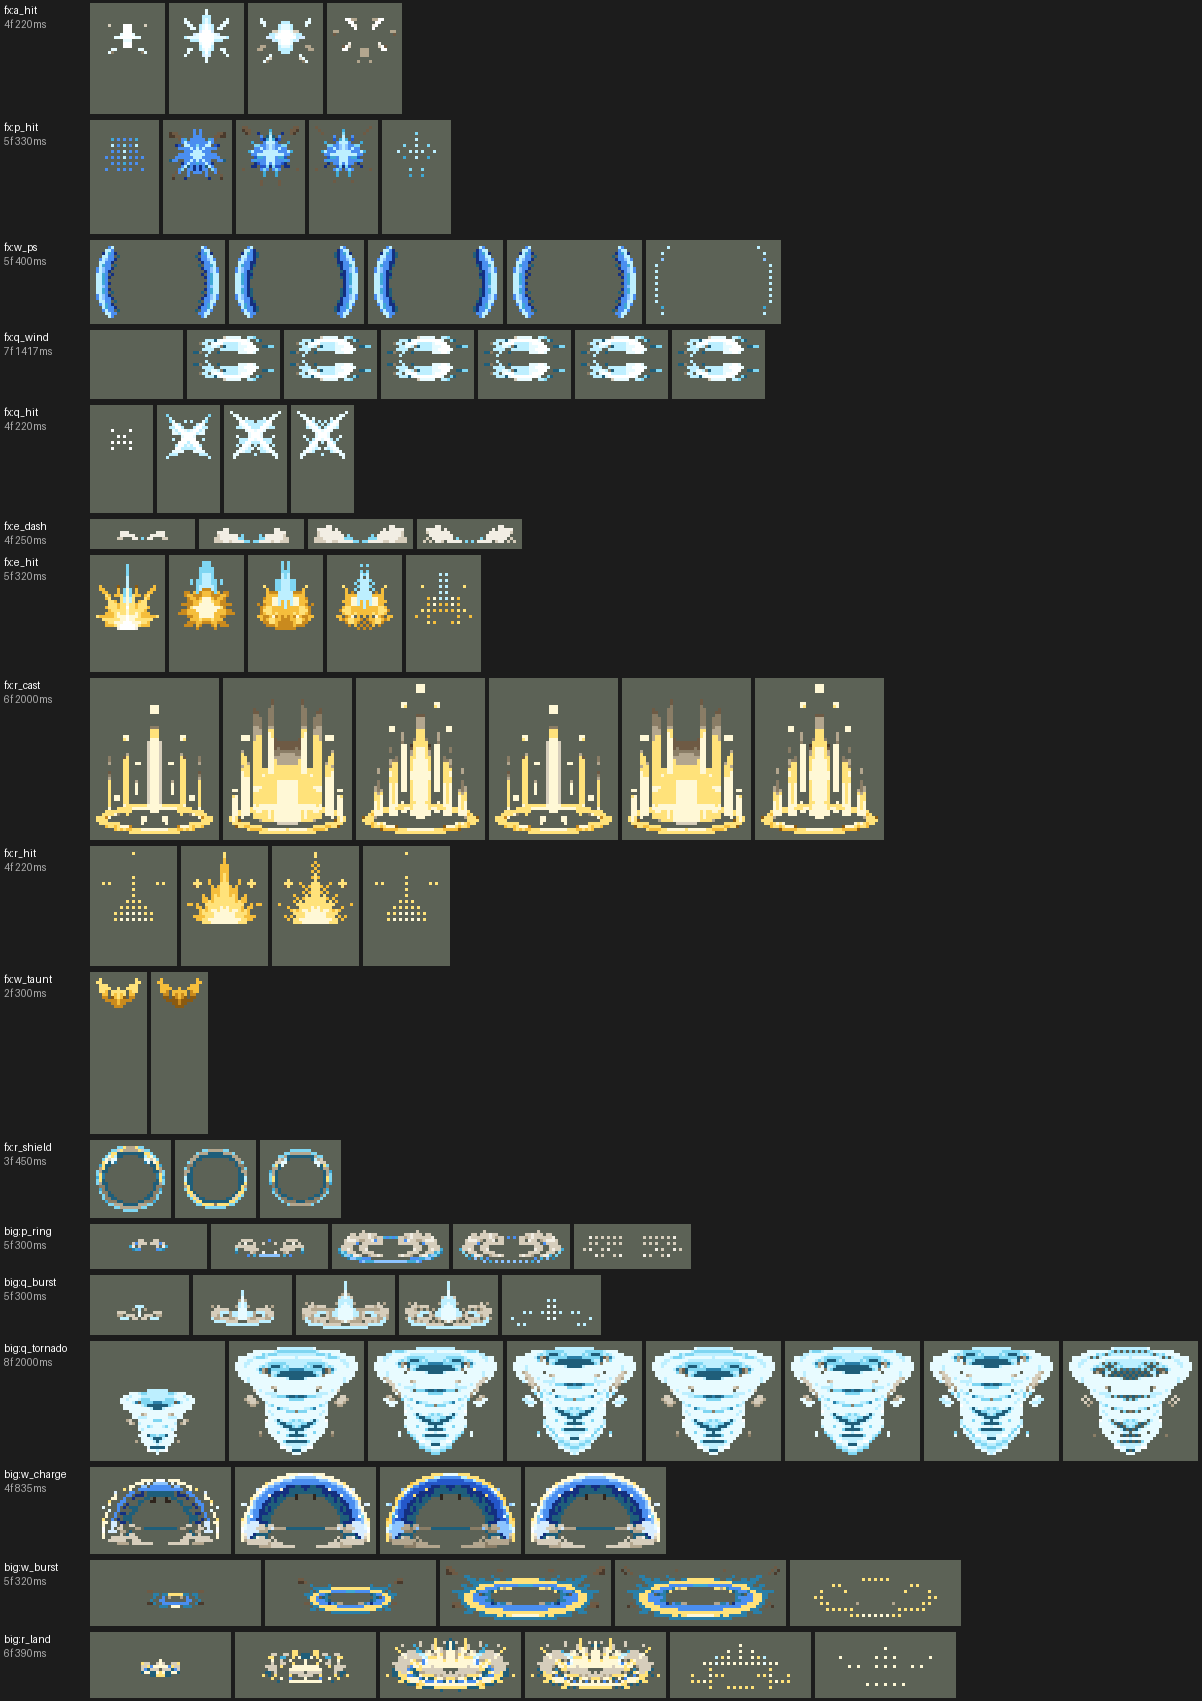
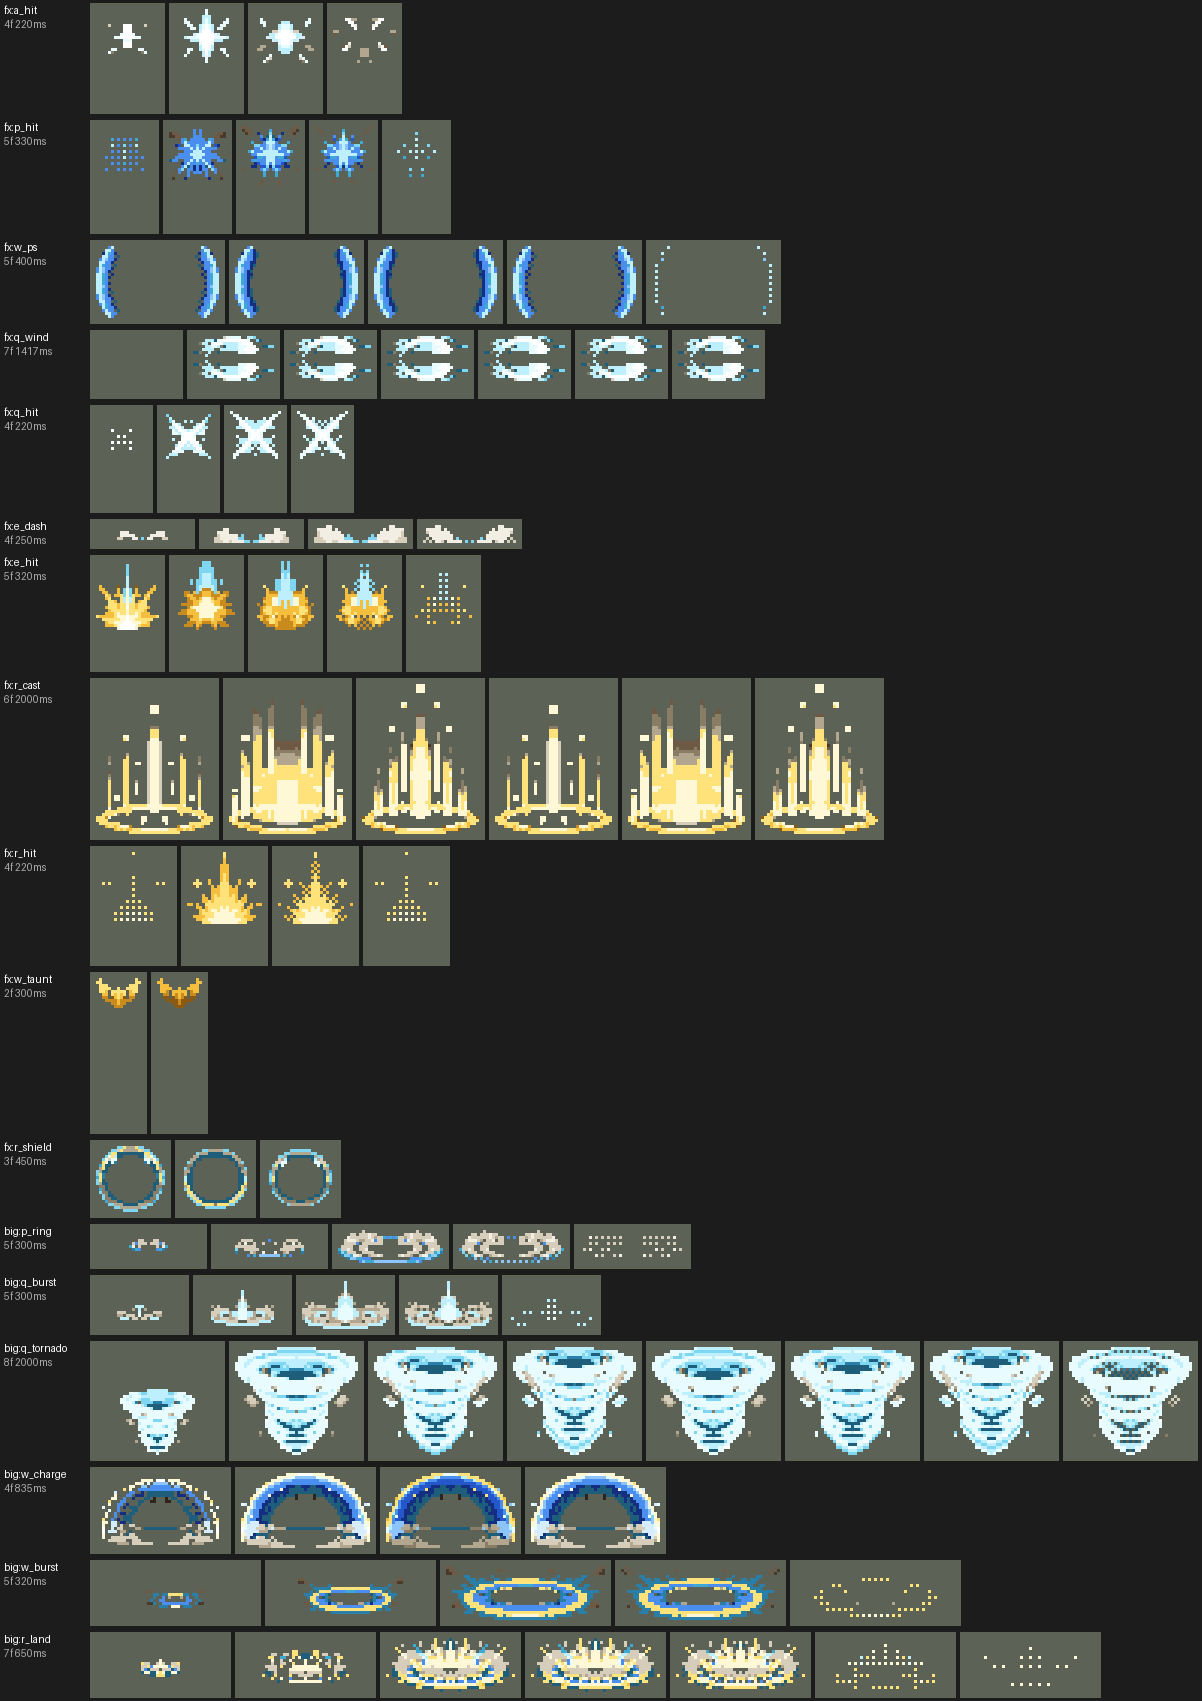
league_galio R landing readable (the user: 「大招落地的效果没有？怎么gif图里看不出」): r_land held 650 ms (its peak was 60 ms), the preview draws it over the units as the kit does (z 2)

diff --git a/tools/art/import_galio.py b/tools/art/import_galio.py
@@ -105,8 +105,9 @@ SEQ = {
     "w_burst": [((G_, 0, 0.35), 40), ((G_, 0, 0.65), 50), ((C_, 0), 60), ((F_, 0, 1), 80), ((F_, 0, 2), 90)],
     # the channel's 120 ticks (2 s)
     "r_cast": [((C_, 0), 333), ((C_, 1), 333), ((C_, 2), 333), ((C_, 0), 333), ((C_, 1), 333), ((C_, 2), 335)],
-    "r_land": [((G_, 0, 0.35), 40), ((G_, 0, 0.65), 50), ((C_, 0), 60), ((F_, 0, 1), 70), ((F_, 0, 2), 80),
-               ((F_, 0, 3), 90)],
+    # the landing held long enough to read (the user: 「大招落地的效果没有？怎么gif图里看不出」 - its peak lasted 60 ms)
+    "r_land": [((G_, 0, 0.35), 40), ((G_, 0, 0.65), 60), ((C_, 0), 160), ((C_, 0), 120), ((F_, 0, 1), 100),
+               ((F_, 0, 2), 90), ((F_, 0, 3), 80)],
     "r_hit": [((F_, 0, 2), 40), ((C_, 0), 50), ((F_, 0, 1), 60), ((F_, 0, 2), 70)],
     "w_taunt": [((C_, 0), 150), ((F_, 0, 0), 150)],
     "r_shield": [((C_, 0), 150), ((C_, 1), 150), ((C_, 2), 150)],

diff --git a/tools/art/preview_galio.py b/tools/art/preview_galio.py
@@ -116,7 +116,7 @@ def showcase(out, z=3, step=40):
     arrive = t
     me.moves.append((arrive - 1, arrive, x0, tx - 18))
     lt = arrive + tick(P["r_lt"])
-    under.append(Anim(frames_of(big, "r_land"), lt, tx - 18, gy))
+    over.append(Anim(frames_of(big, "r_land"), lt, tx - 18, gy))       # z 2 in the kit: drawn over the units
     hit("r_hit", lt)
     d.holds.append((lt, lt + tick(P["r_up"])))
     a("ult_land", tick(P["r_land"]))
